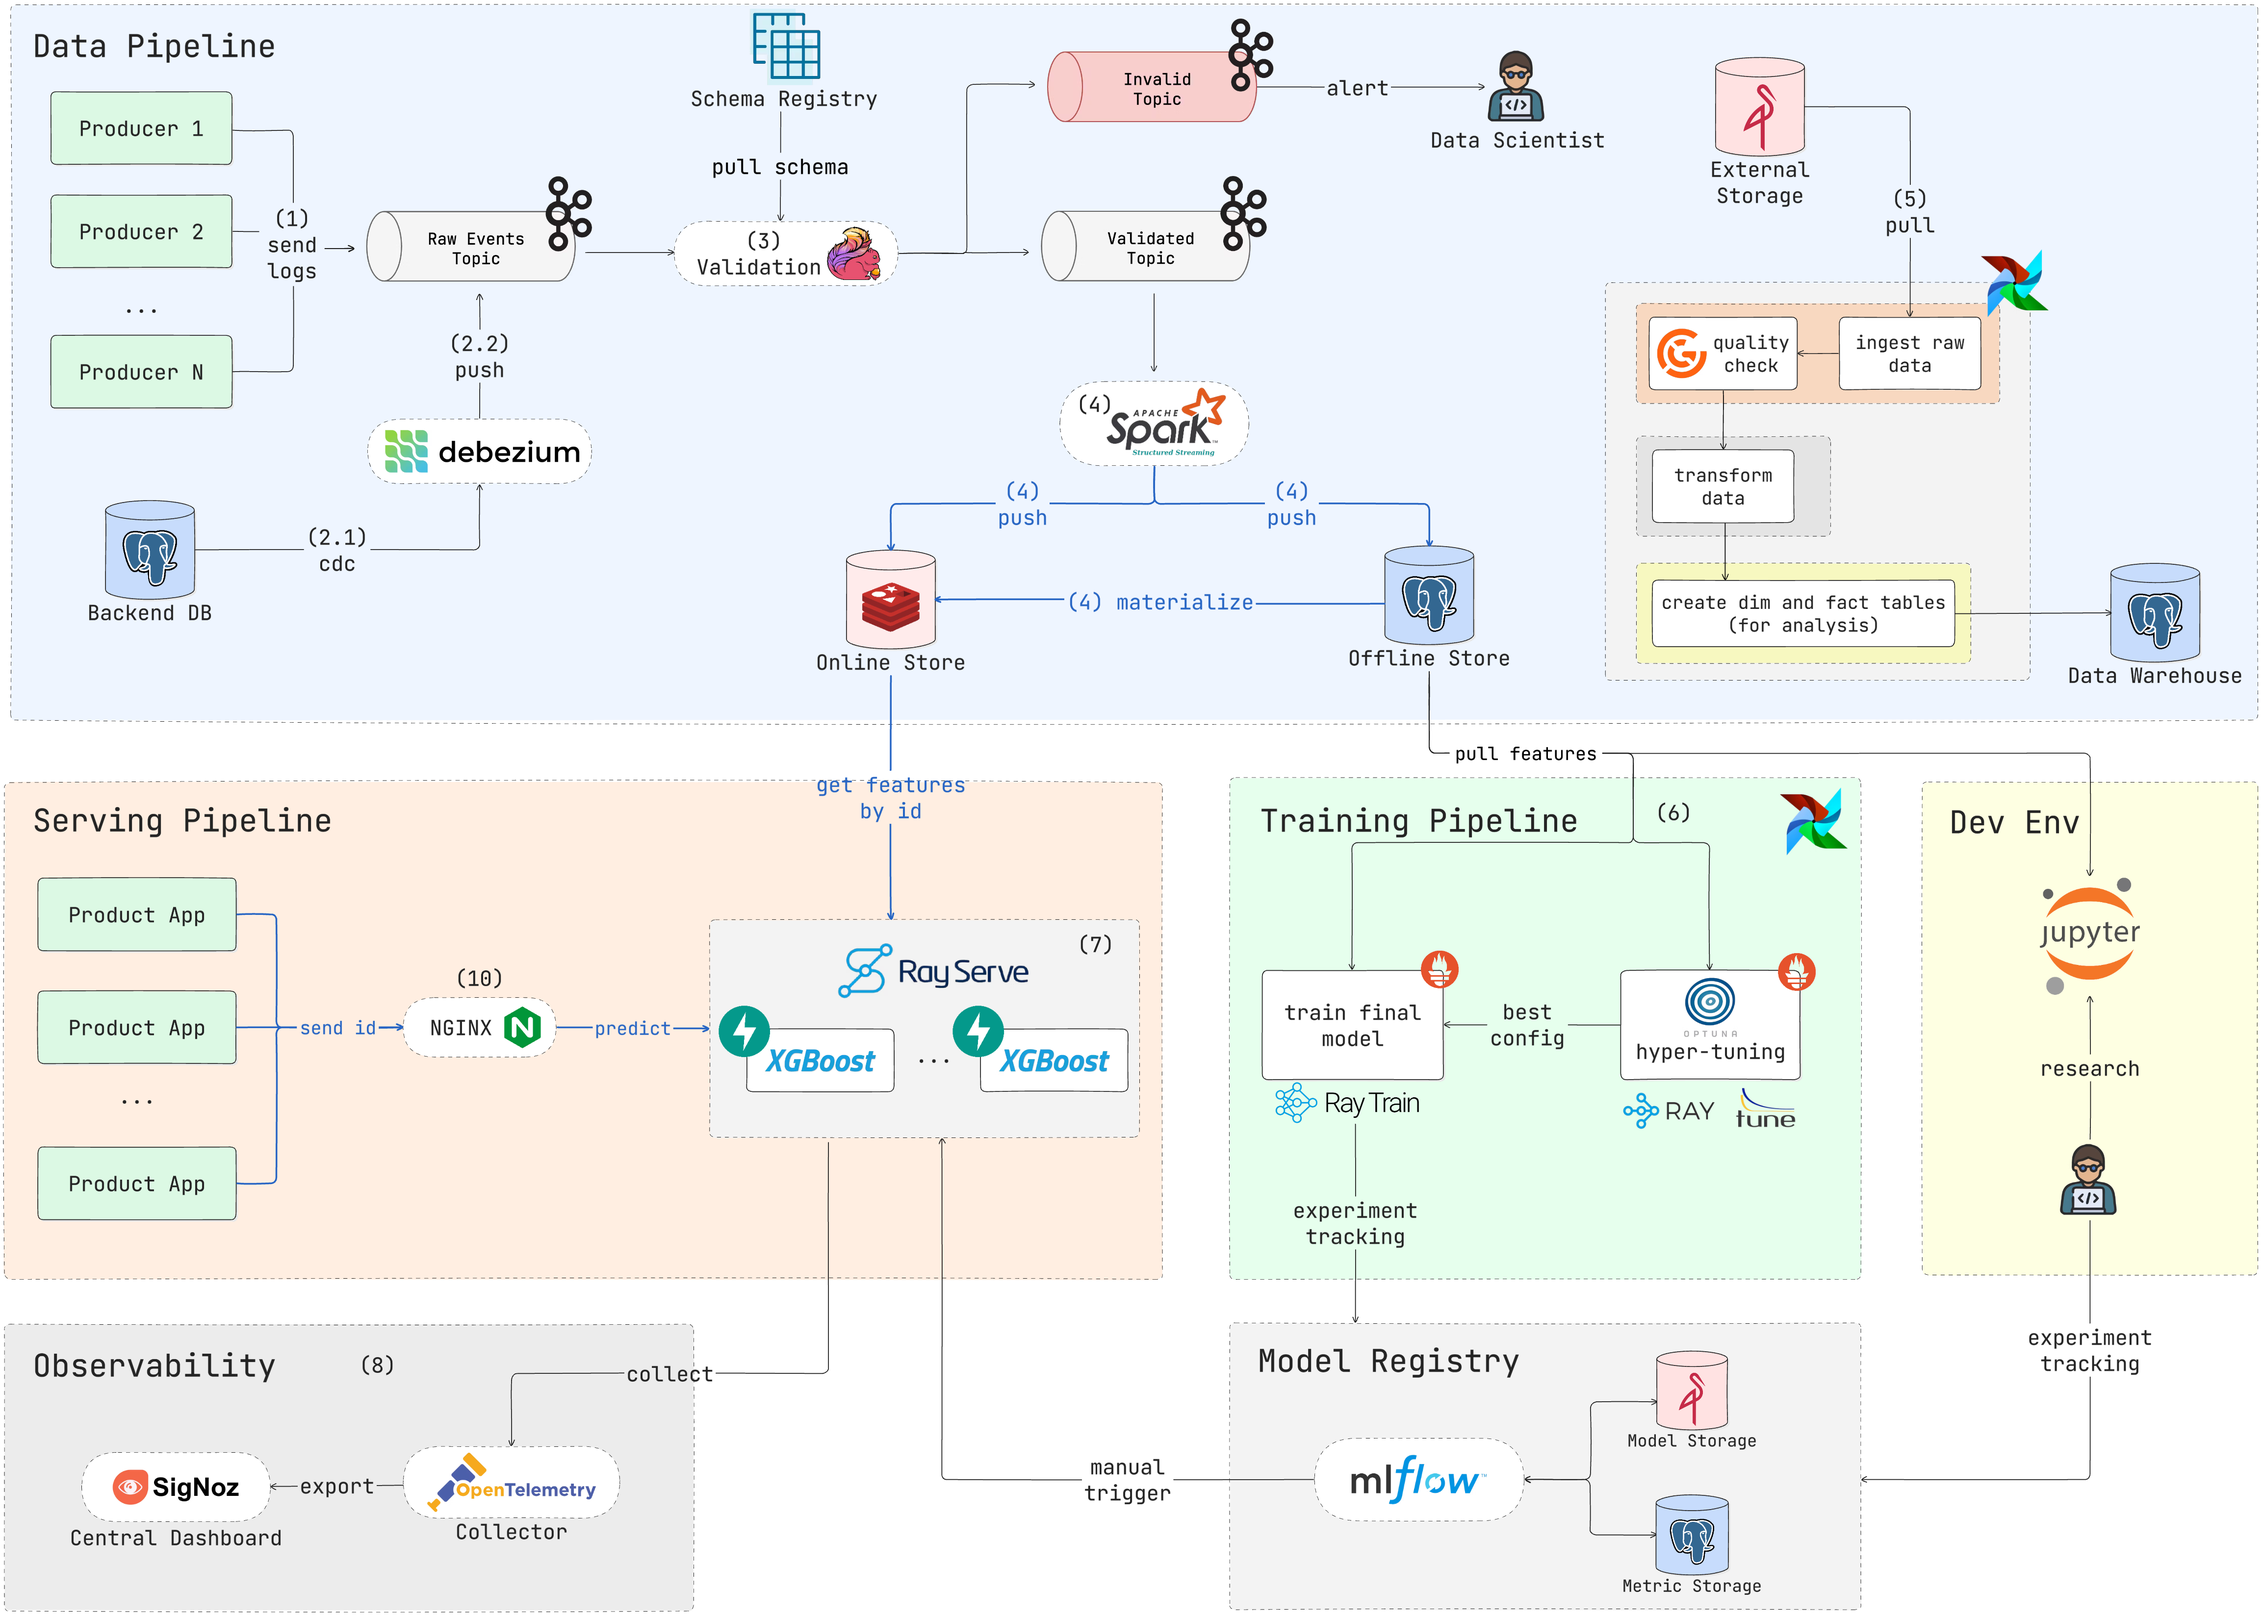
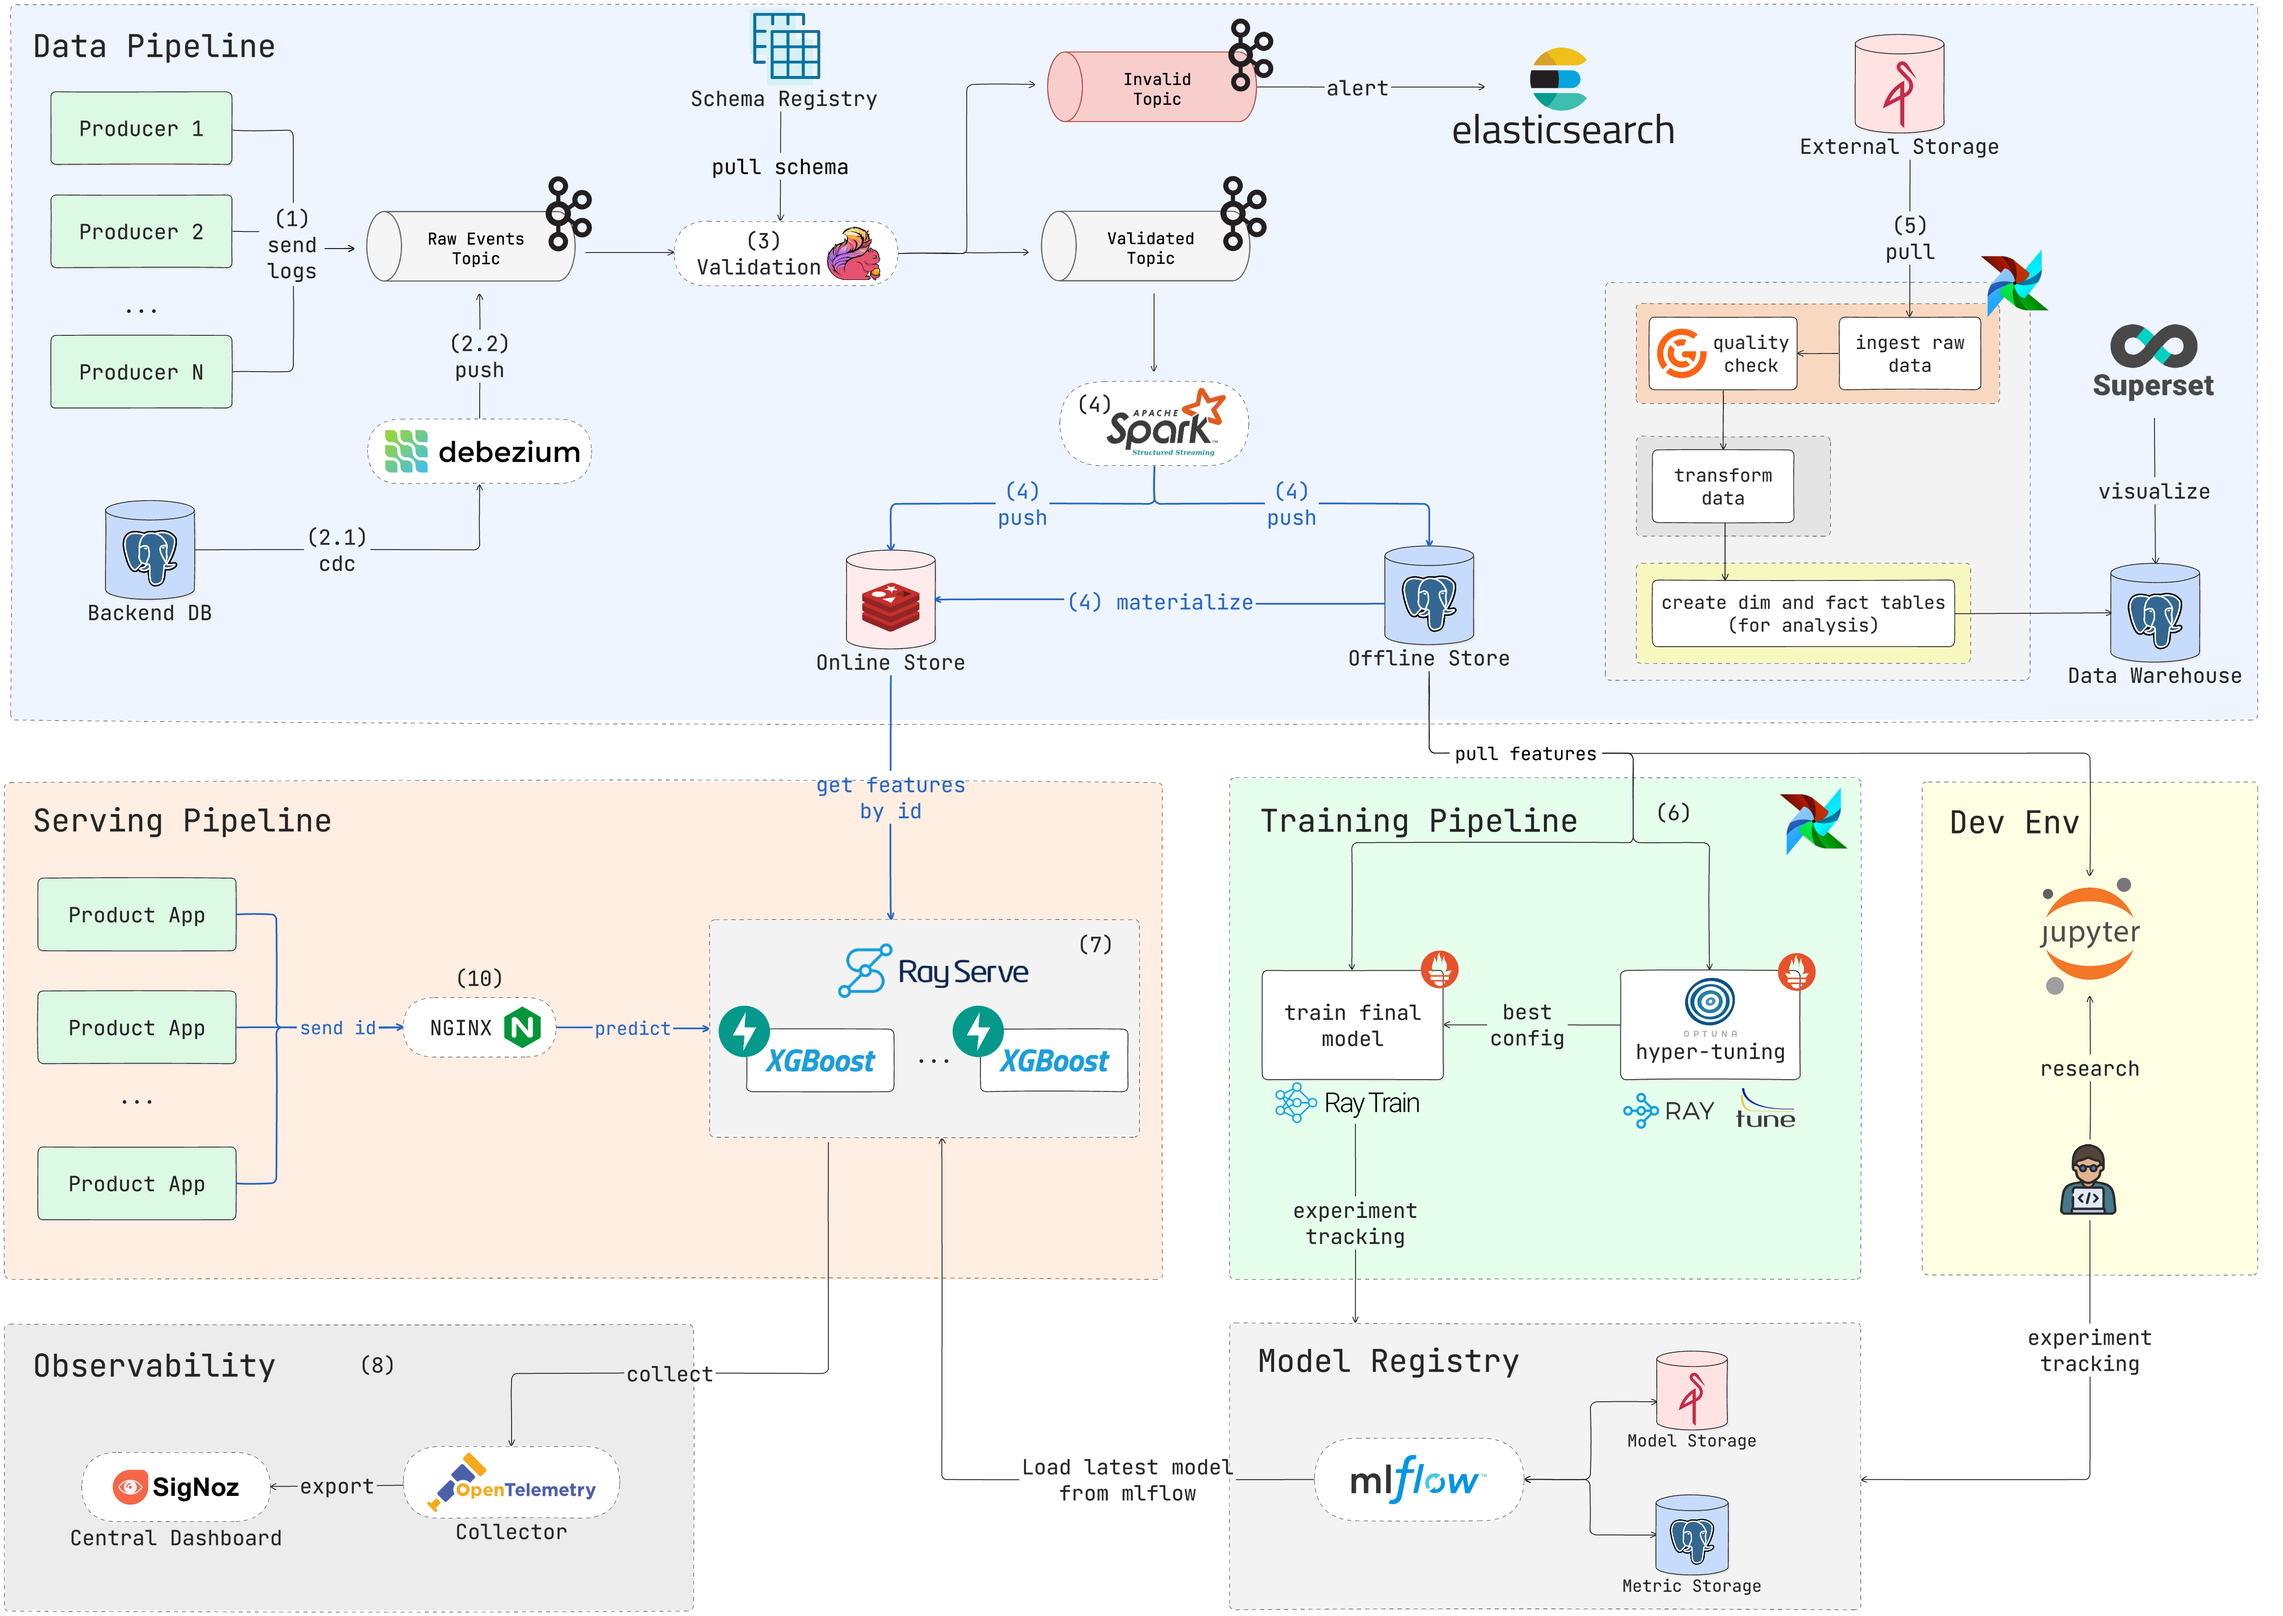
docs: Update readme and pipeline

diff --git a/README.md b/README.md
@@ -58,6 +58,7 @@ The system comprises four main components—**Data**, **Training**, **Serving**,
   - `tracking.user_behavior.validated` for valid events
   - `tracking.user_behavior.invalid` for schema violations
 - Handles ~10k events/second
+- Alerts invalid events to Elasticsearch
 
 #### ☁ Storage Layer
 
@@ -125,6 +126,11 @@ The system comprises four main components—**Data**, **Training**, **Serving**,
   - Tracks Ray cluster metrics
   - Visualizes system performance
   - Accessible at `localhost:3009`
+- **Superset**:
+  - Visualize the data in the Data Warehouse
+  - Accessible at `localhost:8089`
+- **Elasticsearch**:
+  - Alert invalid events
 
 #### 🔒 Access Management
 
@@ -284,11 +290,13 @@ After starting the job, you can go to `localhost:9021` and you should see the `t
 
 ![Kafka Topics](./docs/images/kafka-topic-schema-validation.jpg)
 
-Beside that, we can also start the `alert_invalid_events` job to alert the invalid events. Currently, it just print the invalid events to the terminal, but you can modify it easily in the `src/streaming/jobs/alert_invalid_events_job.py` file.
+Beside that, we can also start the `alert_invalid_events` job to alert the invalid events.
 
 ```bash
 make alert_invalid_events
 ```
+
+**Note**: This feature of pushing the invalid events to **Elasticsearch** is not implemented yet, I will implement it in the future, but you can do it easily by modifying the `src/streaming/jobs/alert_invalid_events_job.py` file.
 
 ### 🔄 Transformation Job (4)
 
@@ -410,6 +418,14 @@ The `data_pipeline` DAG is divided into three layers:
 Trigger the `data_pipeline` DAG, and you should see the tasks running. This DAG will take some time to complete, but you can check the logs in the Airflow UI to monitor the progress. For simplicity, I hardcoded the `MINIO_PATH_PREFIX` to `topics/tracking.user_behavior.validated/year=2025/month=01`. Ideally, you should use the actual timestamp for each run. For example, `validated-events-bucket/topics/tracking.user_behavior.validated/year=2025/month=01/day=07/hour=XX`, where XX is the hour of the day.
 
 I also use checkpointing to ensure the DAG is resilient to failures and can resume from where it left off. The checkpoint is stored in the Data Lake, just under the `MINIO_PATH_PREFIX`, so if the DAG fails, you can simply trigger it again, and it will resume from the last checkpoint.
+
+To visualize the data, you can use **Superset**.
+
+```bash
+make up-superset
+```
+
+Then go to `localhost:8089` and you should see the Superset dashboard. Connect to the `dwh` database and you should see the `dwh` schema.
 
 #### 🤼♂ Training Pipeline (6)
 
